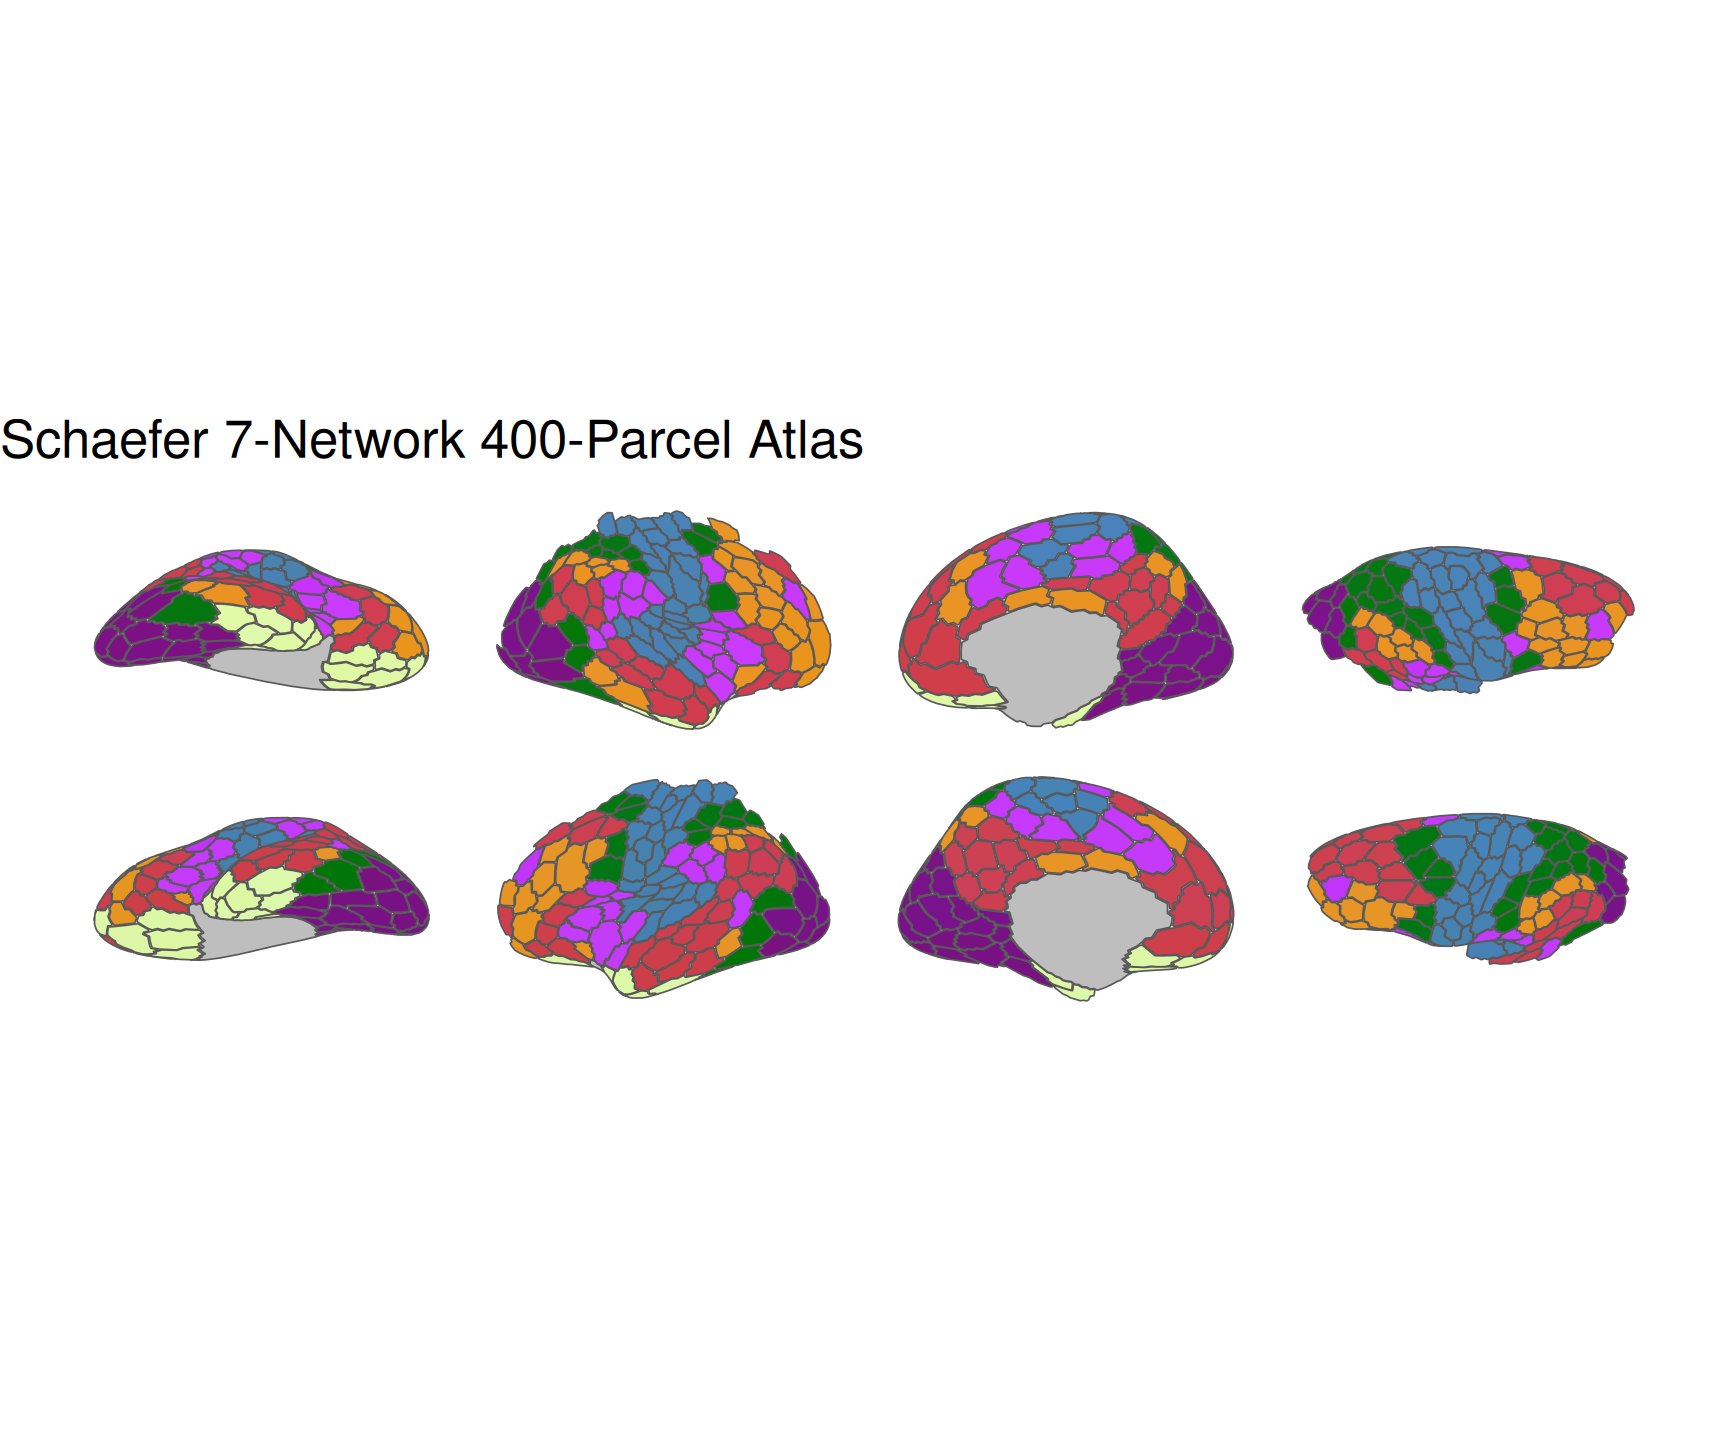
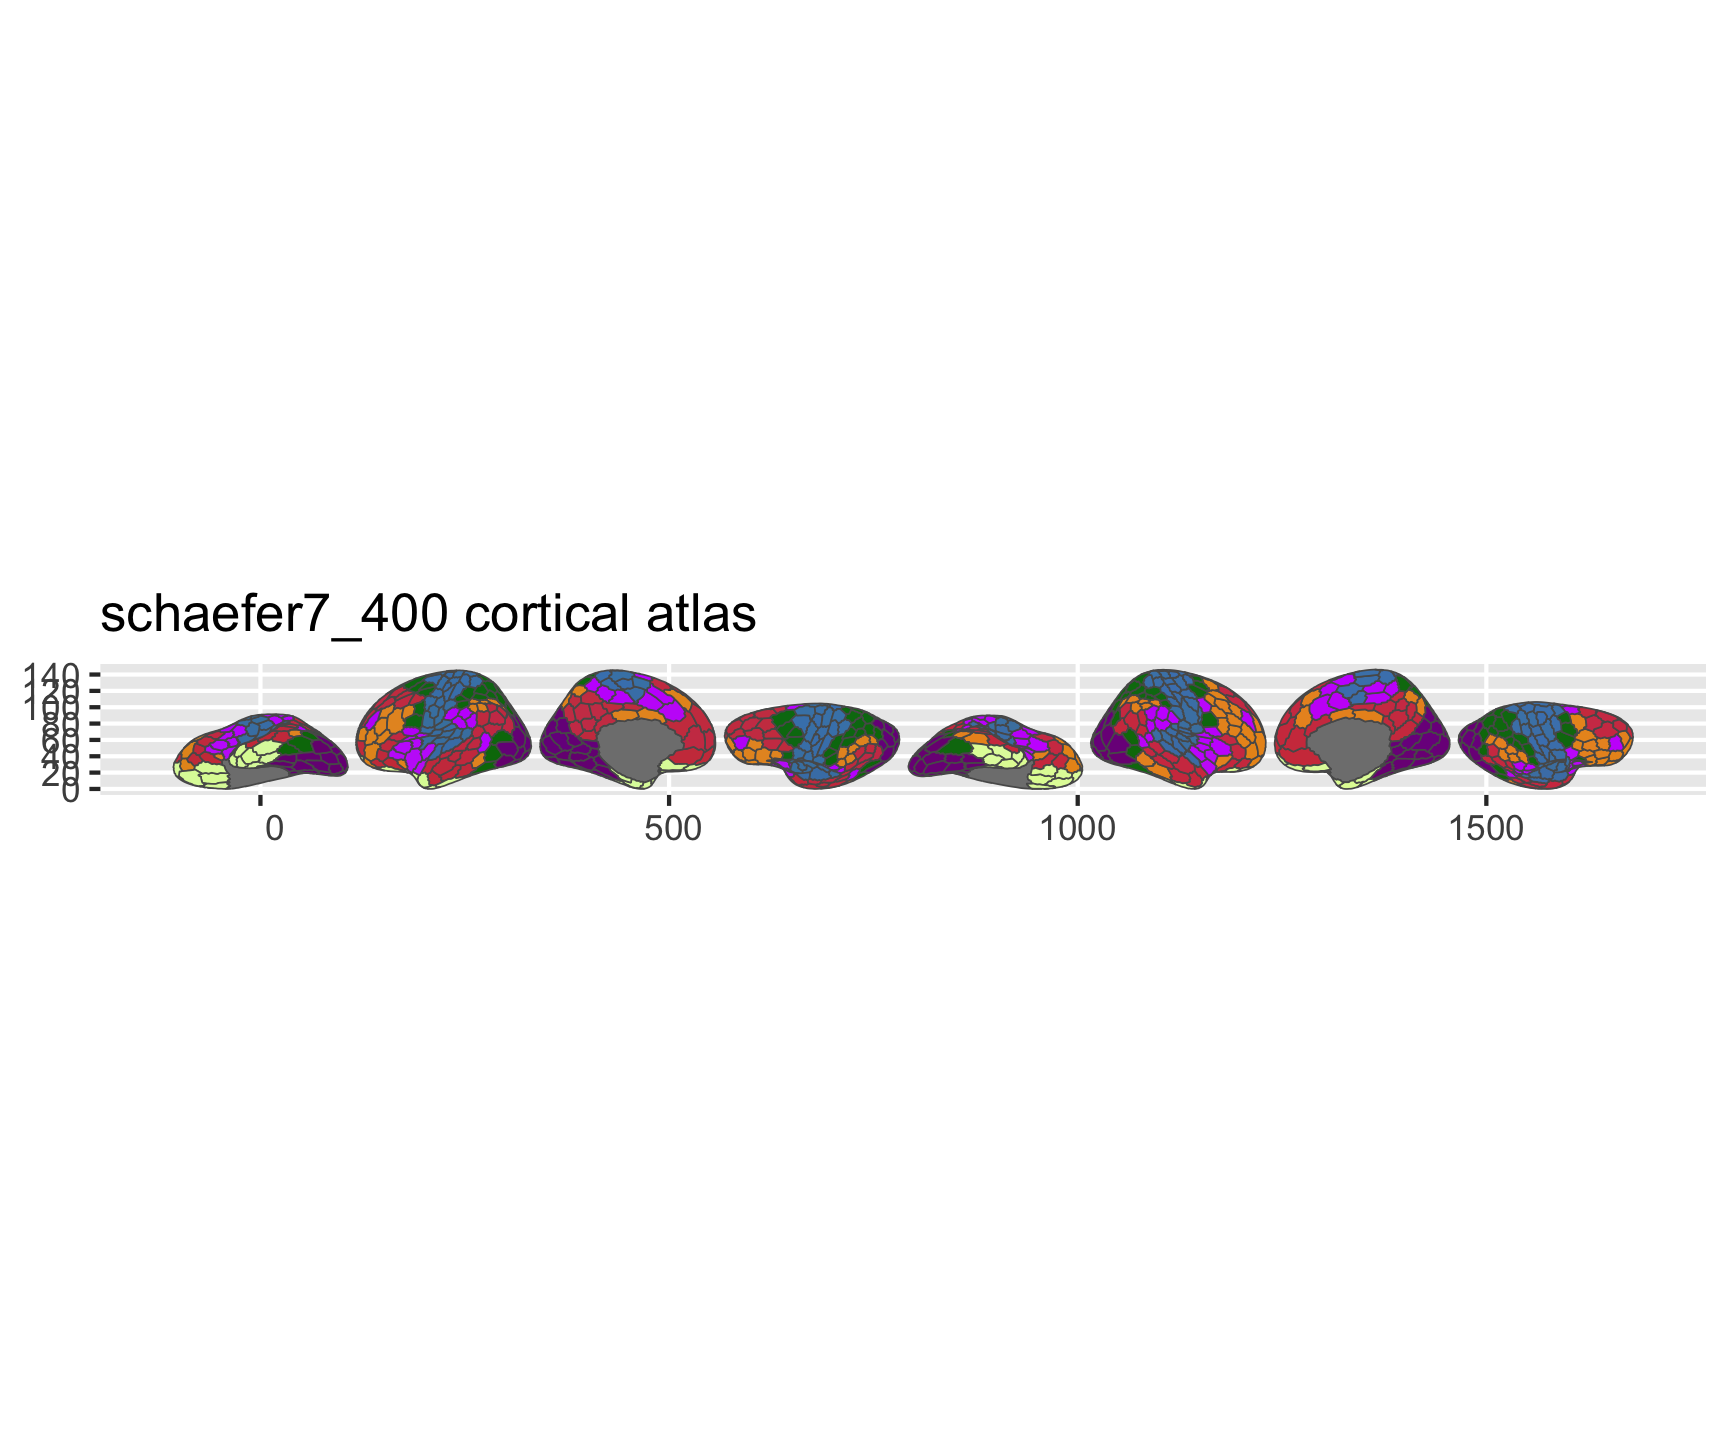
Simplify README plot examples to use plot()
Remove explicit ggplot() + geom_brain(mapping = aes(fill = label)) +
scale_fill_manual() in favour of plot(), which handles colours by default.

Changed region(s): [[0.0, 0.3438, 1.0, 0.6875], [0.0, 0.2812, 0.5, 0.3438]]

diff --git a/README.md b/README.md
@@ -1,85 +1,60 @@
 
+
 <!-- README.md is generated from README.Rmd. Please edit that file -->
 
-# ggsegSchaefer
+# ggsegSchaefer <img src="man/figures/logo.png" align="right" alt="" width="120" />
 
 <!-- badges: start -->
 
-[![R-CMD-check](https://github.com/ggsegverse/ggsegSchaefer/actions/workflows/R-CMD-check.yaml/badge.svg)](https://github.com/ggsegverse/ggsegSchaefer/actions/workflows/R-CMD-check.yaml)
-[![r-universe](https://ggsegverse.r-universe.dev/badges/ggsegSchaefer)](https://ggsegverse.r-universe.dev/ggsegSchaefer)
+[![R-CMD-check](https://github.com/ggsegverse/ggsegSchaefer/workflows/R-CMD-check/badge.svg)](https://github.com/ggsegverse/ggsegSchaefer/actions)
+[![DOI](https://zenodo.org/badge/250276444.svg)](https://zenodo.org/badge/latestdoi/250276444)
+[![r-universe](https://ggseg.r-universe.dev/badges/ggsegSchaefer.png)](https://ggsegverse.github.io/ggsegSchaefer/)
 <!-- badges: end -->
 
-Schaefer Atlas for the ggsegverse Ecosystem.
+This package contains the Schaefer cortical atlas (version 0.17.1) for
+the ggseg ecosystem. Includes both the 7-network and 17-network
+parcellations at resolutions from 100 to 1000 parcels.
 
 ## Installation
 
-``` r
-# From r-universe
-install.packages("ggsegSchaefer", repos = "https://ggsegverse.r-universe.dev")
+You can install ggsegSchaefer from [GitHub](https://github.com/) with:
 
-# From GitHub
+``` r
 # install.packages("remotes")
 remotes::install_github("ggsegverse/ggsegSchaefer")
 ```
 
-## Atlases
-
-Local-global parcellation of the human cerebral cortex (Schaefer et al.,
-2018) in 7-network and 17-network variants at 10 resolutions.
-
-### Available variants
-
-| Parcels | 7 Networks         | 17 Networks         |
-|--------:|:-------------------|:--------------------|
-|     100 | `schaefer7_100()`  | `schaefer17_100()`  |
-|     200 | `schaefer7_200()`  | `schaefer17_200()`  |
-|     300 | `schaefer7_300()`  | `schaefer17_300()`  |
-|     400 | `schaefer7_400()`  | `schaefer17_400()`  |
-|     500 | `schaefer7_500()`  | `schaefer17_500()`  |
-|     600 | `schaefer7_600()`  | `schaefer17_600()`  |
-|     700 | `schaefer7_700()`  | `schaefer17_700()`  |
-|     800 | `schaefer7_800()`  | `schaefer17_800()`  |
-|     900 | `schaefer7_900()`  | `schaefer17_900()`  |
-|    1000 | `schaefer7_1000()` | `schaefer17_1000()` |
-
-### schaefer7_100
+## Example
 
 ``` r
 library(ggsegSchaefer)
-plot(schaefer7_100())
+library(ggseg)
 ```
 
-<img src="man/figures/README-schaefer7_100-1.png" alt="" width="100%" />
-
-### schaefer7_1000
+### 2D atlas
 
 ``` r
-plot(schaefer7_1000())
+plot(schaefer7_400())
 ```
 
-<img src="man/figures/README-schaefer7_1000-1.png" alt="" width="100%" />
-
-### schaefer17_100
+<img src="man/figures/README-schaefer7-2d-1.png" style="width:100.0%" />
 
 ``` r
-plot(schaefer17_100())
+plot(schaefer17_400())
 ```
 
-<img src="man/figures/README-schaefer17_100-1.png" alt="" width="100%" />
+<img src="man/figures/README-schaefer17-2d-1.png"
+style="width:100.0%" />
 
-### schaefer17_1000
+### 3D atlas
 
 ``` r
-plot(schaefer17_1000())
+library(ggseg3d)
+
+ggseg3d(atlas = schaefer7_400()) |>
+  pan_camera("right lateral")
 ```
 
-<img src="man/figures/README-schaefer17_1000-1.png" alt="" width="100%" />
-\## Data source
-
-Annotation files from
-[ThomasYeoLab/CBIG](https://github.com/ThomasYeoLab/CBIG) (fsaverage,
-resampled to fsaverage5).
-
-- **Reference**: Schaefer et al. (2018)
-  [doi:10.1093/cercor/bhx179](https://doi.org/10.1093/cercor/bhx179)
-- **Date obtained**: 2020-03-27
+Please note that the ‘ggsegSchaefer’ project is released with a
+[Contributor Code of Conduct](CODE_OF_CONDUCT.md). By contributing to
+this project, you agree to abide by its terms.